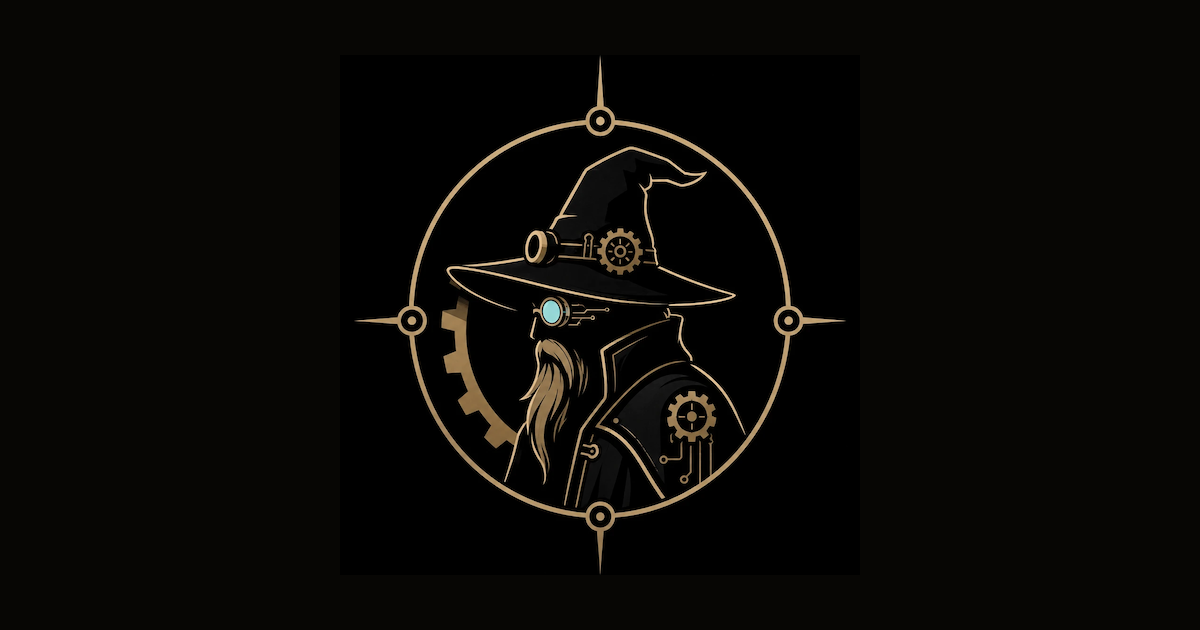
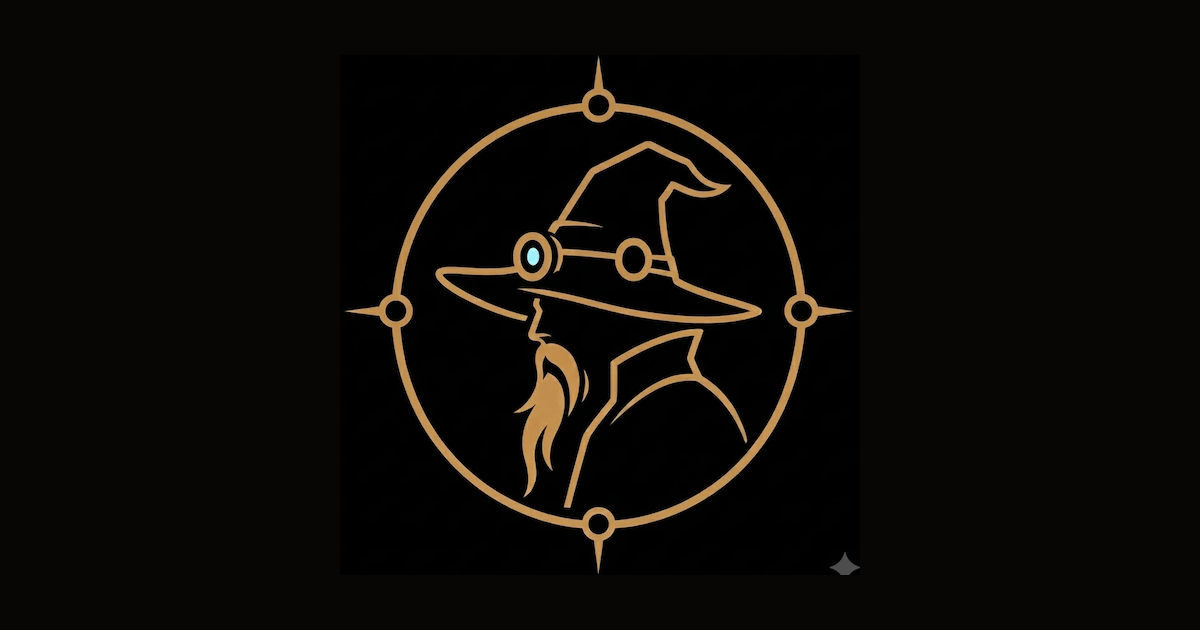
Replace the brand mark with the simplified artificer, and measure the crop
The old mark was hairline linework on an opaque black plate - 82% of the favicon
was near-black - so on the site's black background it read as an empty square.
The owner supplied a simplified master with heavier strokes; this installs it.

The crop is now measured instead of hardcoded. ART_BOX was the previous master's
margins, which would have silently mis-cropped this one. Detection keeps every
substantial piece of the mark and drops specks, judged by extent rather than
pixel count - this emblem is a ring, four detached spikes and a wizard touching
none of them, so "largest connected blob" crops to the wizard alone.

Specks are erased, not merely excluded from the measurement: squaring the crop
around a centred mark reaches back out over a corner speck and drags it into the
favicon, which is exactly what happened on the first pass.

Changed region(s): [[0.2775, 0.0905, 0.7092, 0.9048], [0.6783, 0.8746, 0.7092, 0.9048]]

diff --git a/app.html b/app.html
@@ -964,7 +964,7 @@ generateText = {import:ai-text-plugin}
        pointed wide-brim hat, brass band, crown cog, goggles. Full colour by
        design; this is a logo, not a currentColor UI icon. -->
   <symbol id="i-blvkmark" viewBox="0 0 64 64">
[2 lines of base64/hex data omitted]
   </symbol>
 </svg>
 

diff --git a/docs/sigil/index.html b/docs/sigil/index.html
@@ -1224,7 +1224,7 @@
        pointed wide-brim hat, brass band, crown cog, goggles. Full colour by
        design; this is a logo, not a currentColor UI icon. -->
   <symbol id="i-blvkmark" viewBox="0 0 64 64">
[2 lines of base64/hex data omitted]
   </symbol>
 </svg>
 

diff --git a/augur.html b/augur.html
@@ -467,7 +467,7 @@
   <div class="topbar">
     <a class="brand" href="/">
       <span class="mark">
[2 lines of base64/hex data omitted]
       </span>
       <span>
         <span class="wordmark"><b>BLVKWARE</b> AUGU<i>R</i></span>

diff --git a/docs/augur/index.html b/docs/augur/index.html
@@ -734,7 +734,7 @@
   <div class="topbar">
     <a class="brand" href="/">
       <span class="mark">
[2 lines of base64/hex data omitted]
       </span>
       <span>
         <span class="wordmark"><b>BLVKWARE</b> AUGU<i>R</i></span>

diff --git a/docs/scry/index.html b/docs/scry/index.html
@@ -621,7 +621,7 @@
   <div class="topbar">
     <a class="brand" href="/">
       <span class="mark">
[2 lines of base64/hex data omitted]
       </span>
       <span>
         <span class="wordmark"><b>BLVKWARE</b> SCR<i>Y</i></span>

diff --git a/scry.html b/scry.html
@@ -354,7 +354,7 @@
   <div class="topbar">
     <a class="brand" href="/">
       <span class="mark">
[2 lines of base64/hex data omitted]
       </span>
       <span>
         <span class="wordmark"><b>BLVKWARE</b> SCR<i>Y</i></span>

diff --git a/dev/embed-logo.py b/dev/embed-logo.py
@@ -32,10 +32,12 @@ ROOT = os.path.dirname(os.path.dirname(os.path.abspath(__file__)))
 MASTER = os.path.join(ROOT, "assets", "blvkware-logo.webp")
 ASSETS = os.path.join(ROOT, "docs", "assets")
 
-# Bounding box of the actual artwork inside the master, measured with a
-# luminance threshold — the source carries a wide flat-black margin that would
-# otherwise shrink the mark to nothing at favicon sizes.
-ART_BOX = (104, 51, 1149, 1155)
+# The artwork box is measured, not hardcoded. The master carries a wide flat-black
+# margin which, if kept, shrinks the mark to nothing at favicon sizes — and the
+# exact margin changes every time the owner supplies a new master, so a constant
+# here silently mis-crops the next logo instead of failing loudly.
+ART_THRESHOLD = 18          # luminance above which a pixel counts as artwork
+SPECK_FRACTION = 0.20       # a piece spanning under this share of the mark is a speck
 
 PNG_SIZES = [
     (512, "logo-512.png"),
@@ -49,10 +51,90 @@ PNG_SIZES = [
 INLINE_PX = 160
 
 
+def art_box(im):
+    """Measure the emblem's bounding box, ignoring stray specks.
+
+    Generated masters tend to carry a small decorative glyph off in a corner.
+    Taking a naive threshold bbox lets that speck drag the crop outward, which
+    both off-centres the mark and keeps a meaningless dot that survives all the
+    way down to the favicon. So: find connected blobs, keep the largest, and
+    measure that.
+
+    Blobs are found on a downsampled mask — the emblem is one connected shape at
+    any sane resolution, and 256x256 keeps a pure-Python flood fill instant.
+    """
+    w, h = im.size
+    a = np.asarray(im, dtype=np.float32)
+    lum = 0.2126 * a[:, :, 0] + 0.7152 * a[:, :, 1] + 0.0722 * a[:, :, 2]
+    mask = lum > ART_THRESHOLD
+    if not mask.any():
+        raise ValueError("master logo appears to be entirely black")
+
+    n = 256
+    by, bx = max(1, h // n), max(1, w // n)
+    small = mask[: (h // by) * by, : (w // bx) * bx]
+    small = small.reshape(h // by, by, w // bx, bx).any(axis=(1, 3))
+
+    seen = np.zeros_like(small)
+    blobs = []
+    ys, xs = np.nonzero(small)
+    for sy, sx in zip(ys, xs):
+        if seen[sy, sx]:
+            continue
+        stack, cells = [(sy, sx)], []
+        seen[sy, sx] = True
+        while stack:                                    # 8-connected flood fill
+            cy, cx = stack.pop()
+            cells.append((cy, cx))
+            for dy in (-1, 0, 1):
+                for dx in (-1, 0, 1):
+                    ny, nx = cy + dy, cx + dx
+                    if (0 <= ny < small.shape[0] and 0 <= nx < small.shape[1]
+                            and small[ny, nx] and not seen[ny, nx]):
+                        seen[ny, nx] = True
+                        stack.append((ny, nx))
+        blobs.append(cells)
+
+    # Keep every substantial piece, not just the biggest one. This mark is a ring,
+    # four detached spikes and a wizard that touches none of them — "largest blob"
+    # would silently crop to the wizard alone. Size is judged by extent rather
+    # than pixel count, because a thin 800px ring has fewer lit pixels than a
+    # small dense scribble.
+    def extent(b):
+        ys_, xs_ = [c[0] for c in b], [c[1] for c in b]
+        return max(max(ys_) - min(ys_), max(xs_) - min(xs_)) + 1
+
+    spans = [extent(b) for b in blobs]
+    keep = [b for b, s in zip(blobs, spans) if s >= SPECK_FRACTION * max(spans)]
+    specks = [b for b, s in zip(blobs, spans) if s < SPECK_FRACTION * max(spans)]
+
+    # Erasing them matters as much as excluding them from the measurement:
+    # squaring the crop around a centred mark can reach back out over a corner
+    # speck and drag it into the favicon.
+    if specks:
+        px = np.asarray(im).copy()
+        for b in specks:
+            for cy_, cx_ in b:
+                px[cy_ * by:(cy_ + 1) * by, cx_ * bx:(cx_ + 1) * bx] = 0
+        im.paste(Image.fromarray(px))
+        print("  erased %d stray speck(s) outside the mark" % len(specks))
+
+    cells = [c for b in keep for c in b]
+    cy = [c[0] for c in cells]
+    cx = [c[1] for c in cells]
+    # Back to full resolution, then tighten on the real pixels inside that band.
+    y0, y1 = min(cy) * by, min(h, (max(cy) + 1) * by)
+    x0, x1 = min(cx) * bx, min(w, (max(cx) + 1) * bx)
+    sub = mask[y0:y1, x0:x1]
+    sy, sx = np.nonzero(sub)
+    return (x0 + int(sx.min()), y0 + int(sy.min()),
+            x0 + int(sx.max()) + 1, y0 + int(sy.max()) + 1)
+
+
 def square(im):
     """Crop to a centred square that holds the whole artwork, nothing clipped."""
     w, h = im.size
-    x0, y0, x1, y1 = ART_BOX
+    x0, y0, x1, y1 = art_box(im)
     cx, cy = (x0 + x1) / 2.0, (y0 + y1) / 2.0
     half = max(x1 - x0, y1 - y0) / 2.0
     box = (int(round(cx - half)), int(round(cy - half)),
